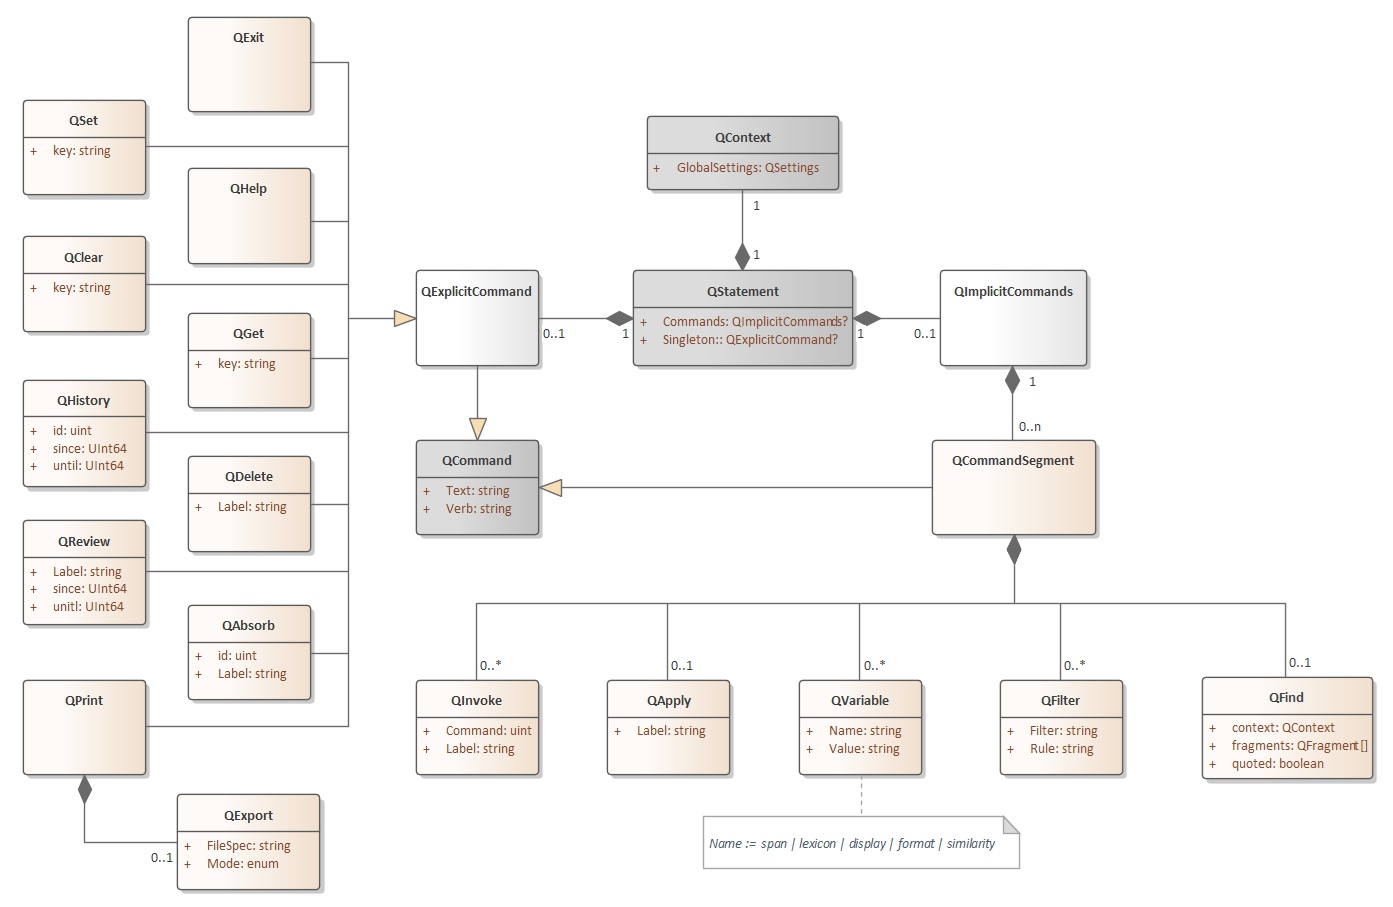
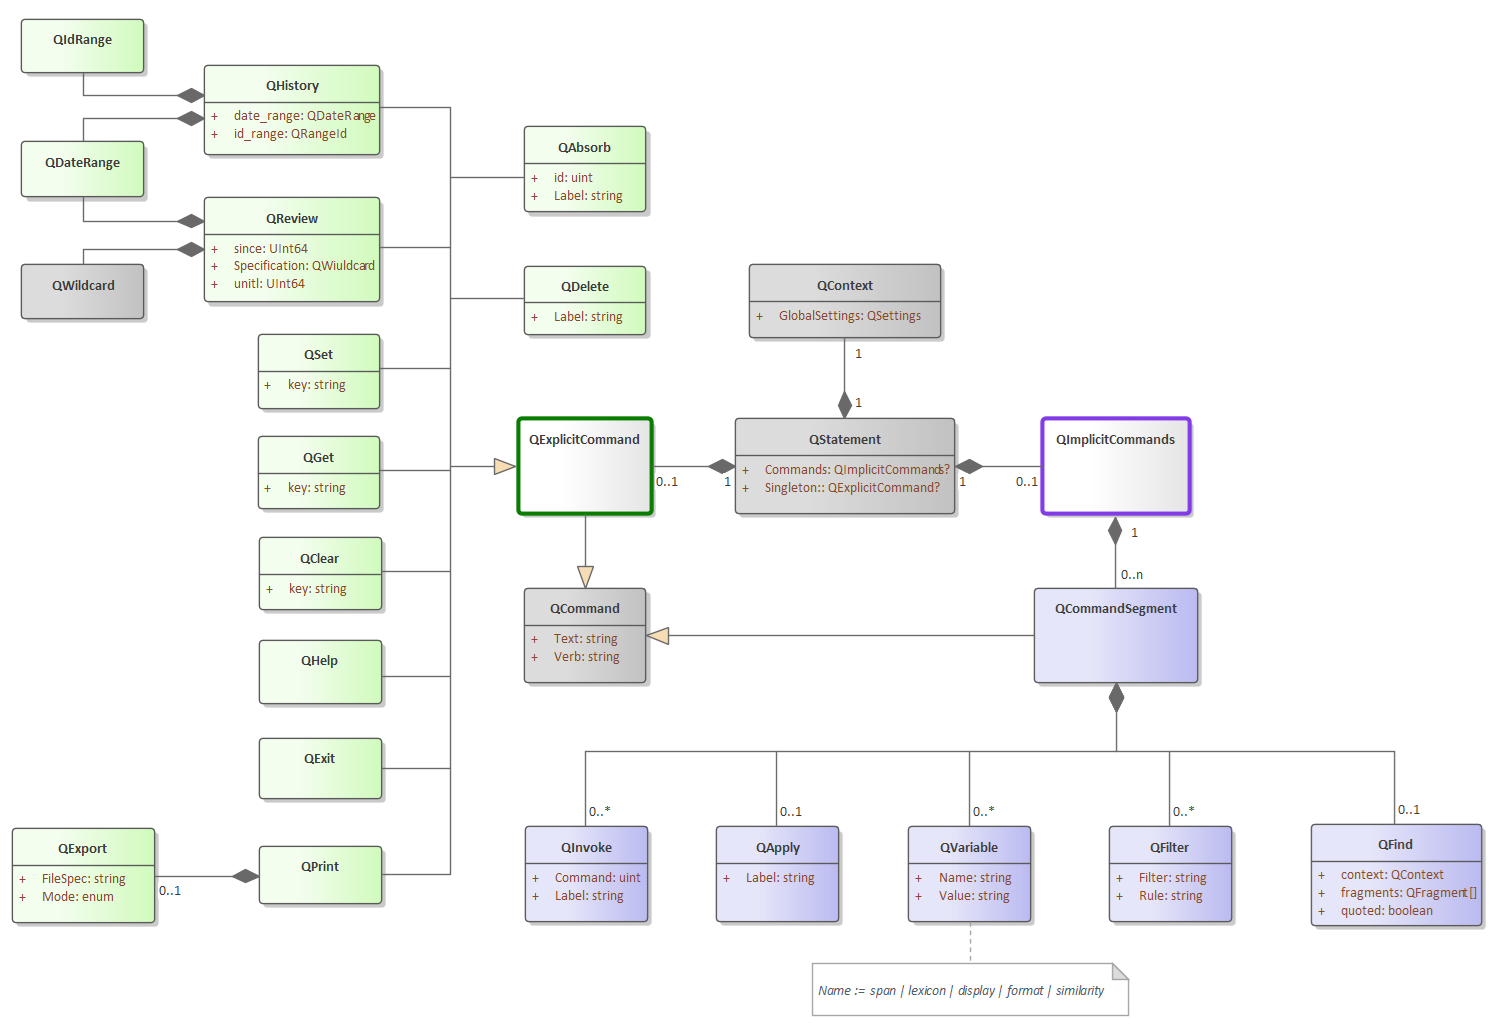
Refine Quelle grammar to 2.3.C23; diagrams reflect changes

diff --git a/README.md b/README.md
@@ -55,7 +55,7 @@ Evidenced by Figure 1, serialization is used for parameters when crossing from C
 
 ### Blueprint-Blue Internals
 
-Blueprint-Blue is an in-process .NET 8 assembly. It uses standard C# interfaces for parameters and the return types. However, the assembly also obfuscates calls to a native Rust library to parse the specialized Quelle grammar into a JSON parse tree. The relationship to the [Rust] [Pinshot-blue library](https://github.com/kwonus/pinshot-blue) is shown in Figure 1. Once a parse tree [JSON text] is converted into the Blueprint-Blue object framework, it is returned to the AV-Engine for further processing. The OO model/blueprint is depicted in Figure 3-1.
+Blueprint-Blue is an in-process .NET 8 assembly. It uses standard C# interfaces for parameters and the return types. However, the assembly also obfuscates calls to a native Rust library to parse the specialized Quelle grammar into a JSON parse tree. The relationship to the [Rust] [Pinshot-blue library](https://github.com/kwonus/pinshot-blue) is shown in Figure 1. Once a parse tree [JSON text] is converted into the Blueprint-Blue object framework, it is returned to the AV-Engine for further processing. The OO model/blueprint is depicted in Figure 3-1. All green objects in the diagram relate to explicit Quelle commands. All purple objects in the diagram relate to implicit Quelle commands/expressions. All gray objects are neutral or shared.
 
 ![](QCommand.png)
 
